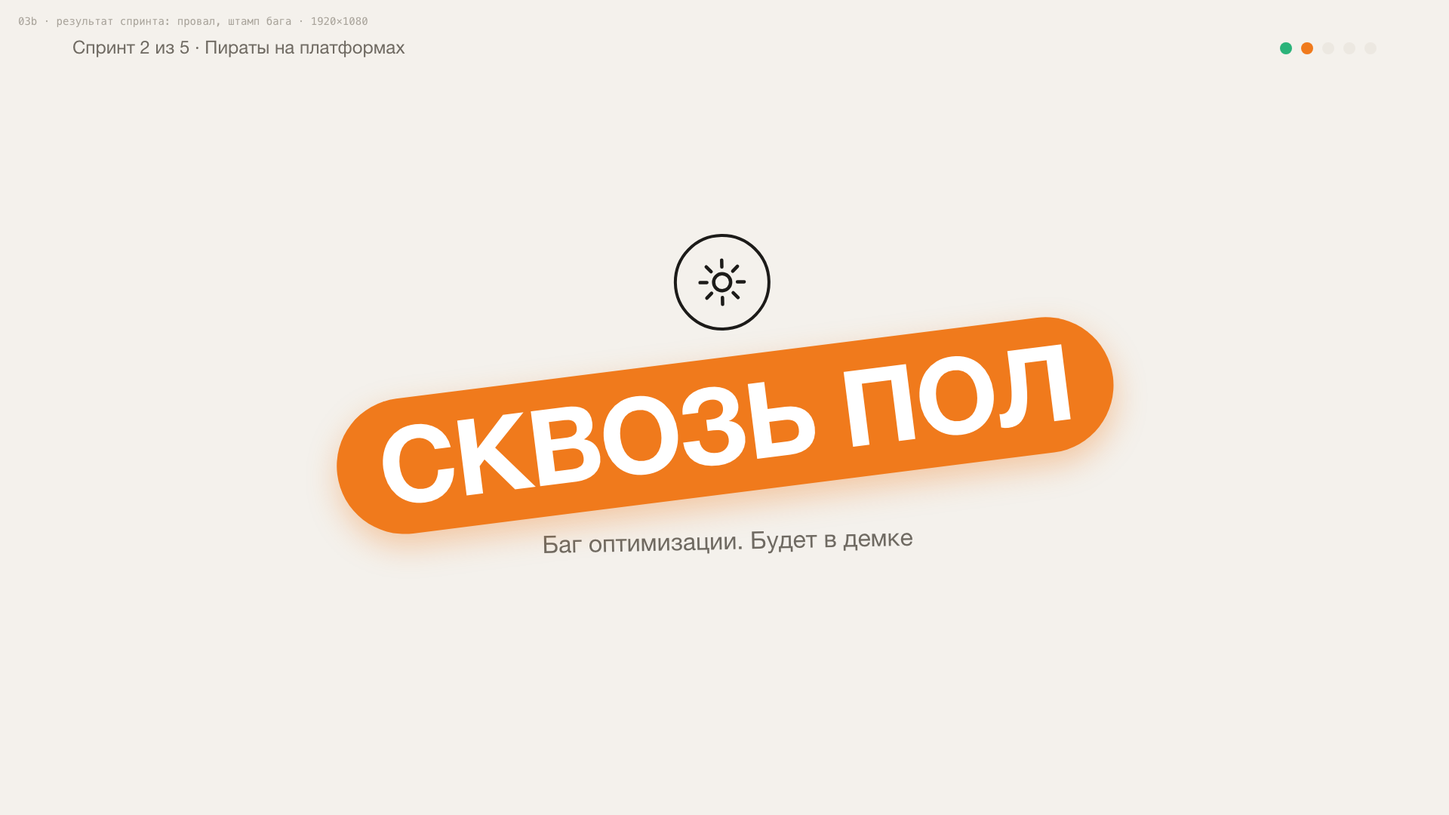
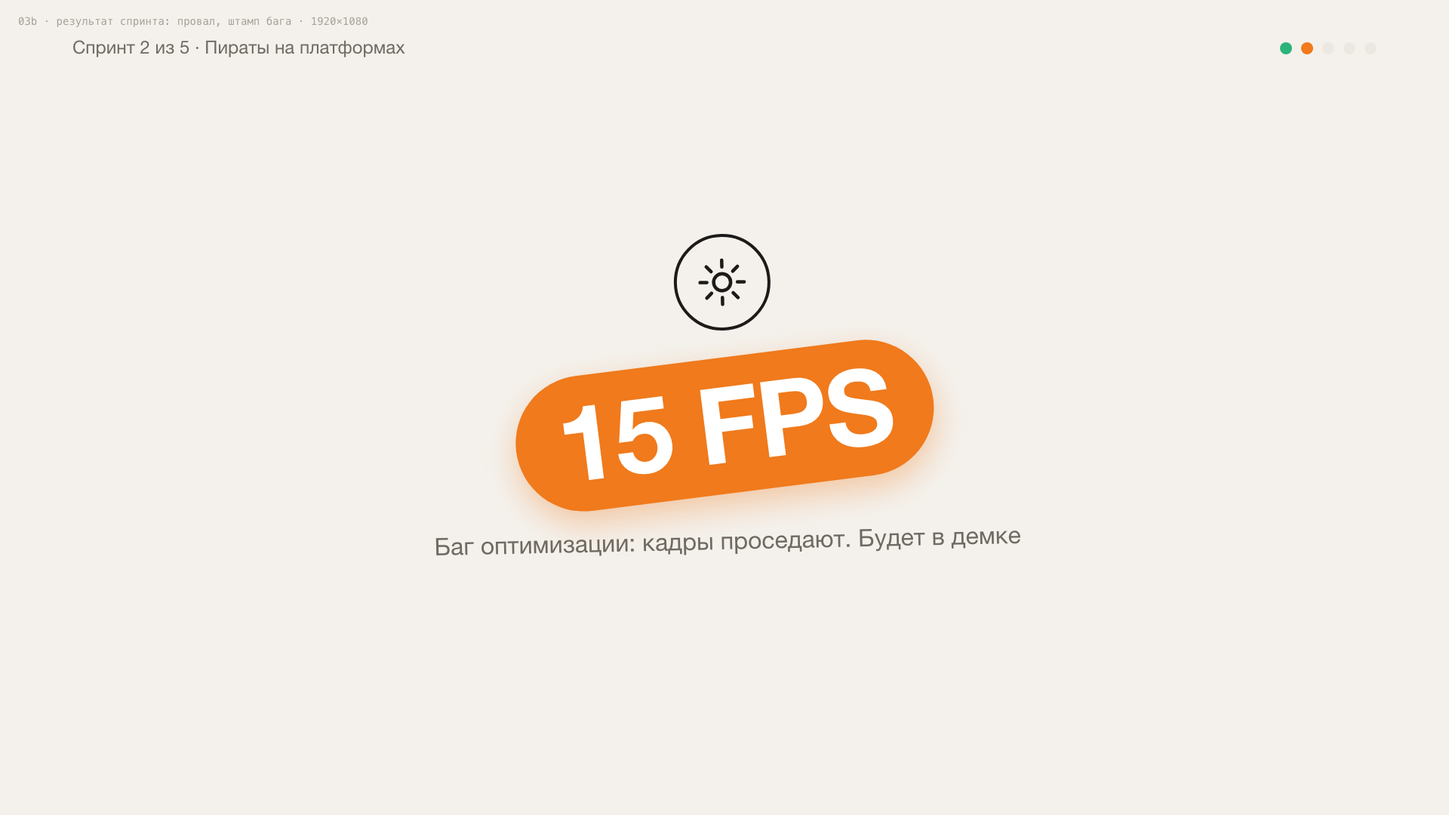
Оптимизация про кадры, баги жанра и технологии; спека демок и каталог 25 пар с набором ассетов сеттинга

Changed region(s): [[0.2188, 0.3667, 0.7812, 0.7028]]

diff --git a/docs/concepts/03b-result-bug.html b/docs/concepts/03b-result-bug.html
@@ -19,8 +19,8 @@
   <div class="dots"><span class="dot ok"></span><span class="dot bug"></span><span class="dot"></span><span class="dot"></span><span class="dot"></span></div>
   <div class="center">
     <div class="aspect big"><svg viewBox="0 0 64 64"><circle cx="32" cy="32" r="10"/><path d="M32 6v8M32 50v8M6 32h8M50 32h8M13.6 13.6l5.7 5.7M44.7 44.7l5.7 5.7M13.6 50.4l5.7-5.7M44.7 19.3l5.7-5.7"/></svg></div>
-    <div class="stamp">СКВОЗЬ ПОЛ</div>
-    <div class="sub">Баг оптимизации. Будет в демке</div>
+    <div class="stamp">15 FPS</div>
+    <div class="sub">Баг оптимизации: кадры проседают. Будет в демке</div>
   </div>
   <div class="label">03b · результат спринта: провал, штамп бага · 1920×1080</div>
 </body></html>

diff --git a/docs/specs/demos_catalog.md b/docs/specs/demos_catalog.md
@@ -1,0 +1,151 @@
+# Каталог демок и набор ассетов сеттинга
+
+Приложение к `demos.md`. Две части: что собой представляет минутная демка каждой пары жанр +
+технология, и какие ассеты обязан дать сеттинг, чтобы любая демка могла его надеть.
+
+## Как читать
+
+У жанра одна цель, одно управление и одна логика на все пять технологий. Технология меняет
+рендер, камеру и темп, в двух местах меняет и геометрию: гонки на 16/32-bit становятся
+псевдо-3D, а обе 3D-технологии переводят все жанры в объём. Переиспользование кода между
+технологиями вопрос реализации, здесь только то, что видит игрок.
+
+Правила технологий, общие для всех жанров:
+
+| Технология | Рендер | Движение | Звук |
+|---|---|---|---|
+| ASCII | Сетка глифов 80×30, один-два цвета на экран, моноширинный шрифт | По клеткам, шаг раз в тик | Пищалка: один голос, квадратная волна |
+| 8-bit | Тайлы 16×16, палитра сеттинга из 4 цветов плюс чёрный, 3 кадра анимации | Плавное, 60 fps | Чиптюн: 3 голоса |
+| 16/32-bit | Спрайты 32×32, 16 цветов, параллакс в 3 слоя, 6 кадров анимации | Плавное, инерция | Трекер: 8 голосов, семплы |
+| Low poly 3D | Плоская заливка без текстур, до 200 треугольников на объект, жёсткие тени | 3D, камера жанра | Синтезатор: FM-пэды |
+| 3D | Те же меши с текстурами и светом, пост-эффекты | Как low poly, камера свободнее | Оркестровые семплы |
+
+## Платформер
+
+Цель: добежать до флага справа за минуту. Управление: влево, вправо, A прыжок. Один уровень:
+ямы, движущиеся платформы, 4-6 врагов, 10 монет, чекпоинт посередине. Падение возвращает на
+чекпоинт, таймер не останавливается.
+
+| Технология | Демка |
+|---|---|
+| ASCII | Герой `@`, враги `x`, платформы `=`, монеты `$`. Прыжок на две клетки, уровень в три экрана с прокруткой по экрану |
+| 8-bit | Классика NES: фиксированные платформы, враг-ходок, прыжок с переменной высотой по длине нажатия |
+| 16/32-bit | Параллакс в три слоя, враги с паттернами, наклонные поверхности, прыжок с инерцией |
+| Low poly 3D | Вид сбоку в 2.5D: дорожка в объёме, камера следит с небольшим поворотом на поворотах уровня |
+| 3D | То же, камера чуть дальше и ниже, текстуры и тени, прыжок с тенью-пятном под героем |
+
+## Гонки
+
+Цель: один круг против трёх ботов, финиш по позиции за минуту. Управление: влево, вправо
+поворот, A газ, B тормоз. Трасса одна, 6 поворотов, два выезда на обочину с замедлением.
+
+| Технология | Демка |
+|---|---|
+| ASCII | Вид сверху, трасса из `#`, машины `A`, `V`, `<`, `>` по направлению, движение по клеткам с ускорением через частоту шагов |
+| 8-bit | Вид сверху, прокрутка за машиной, спрайт машины в 8 направлениях |
+| 16/32-bit | Псевдо-3D в духе Outrun: дорога уходит в горизонт, повороты сдвигают горизонт, боты как масштабируемые спрайты |
+| Low poly 3D | Камера за машиной, трасса из плоских полигонов, боты в объёме |
+| 3D | То же плюс текстура дороги, тени, тряска камеры на обочине |
+
+## Шутер
+
+Цель: продержаться минуту или уничтожить 30 врагов на арене. Управление: стрелки движение,
+A выстрел в направлении движения, B смена направления на месте. Волны по 5 врагов, аптечка
+раз в 20 секунд.
+
+| Технология | Демка |
+|---|---|
+| ASCII | Арена вид сверху, враги `o`, пули `·`, движение по клеткам, выстрел летит по клетке за тик |
+| 8-bit | Вид сверху, арена в один экран, враги двух типов: идёт и стреляет |
+| 16/32-bit | Вид сверху с параллаксом пола, враги с анимацией смерти, разброс пуль |
+| Low poly 3D | Вид сверху под углом, арена в объёме, враги-капсулы, выстрел трассером |
+| 3D | То же, камера ниже и ближе, вспышки и дым |
+
+## Спорт
+
+Цель: забить больше, чем бот, за минуту; матч один на один в упрощённом футболе. Управление:
+стрелки движение, A удар, B подкат. Поле один экран, ворота по краям, мяч с отскоком.
+
+| Технология | Демка |
+|---|---|
+| ASCII | Поле из `.`, игроки `1` и `2`, мяч `o`, ворота `[ ]`, мяч летит по клеткам с затуханием |
+| 8-bit | Вид сверху, спрайты 16×16, мяч с тенью, удар одной силы |
+| 16/32-bit | Вид три четверти, мяч с высотой, сила удара по длине нажатия, вратари-боты |
+| Low poly 3D | Камера сверху-сбоку, поле в объёме, мяч с физикой отскока |
+| 3D | То же, трава текстурой, повтор гола две секунды |
+
+## Файтинг
+
+Цель: один раунд против бота, минута, побеждает тот, у кого больше здоровья. Управление:
+влево, вправо, A удар, B блок, вниз присед. Два бойца, одна арена, одна полоска здоровья у
+каждого.
+
+| Технология | Демка |
+|---|---|
+| ASCII | Бойцы из 3×4 глифов, удар меняет глифы на один тик, дистанция в клетках |
+| 8-bit | Вид сбоку, спрайты 16×32, удар верхний и нижний, блок стоя |
+| 16/32-bit | Вид сбоку, спрайты 32×64, 6 кадров на удар, комбо из двух ударов |
+| Low poly 3D | Вид сбоку в объёме, бойцы-манекены, камера чуть поворачивается при смене сторон |
+| 3D | То же, арена с глубиной, удары с частицами |
+
+## Порядок реализации
+
+Предложение. Сначала вертикаль одного жанра, потом горизонталь одной технологии, остальное по
+мере открытия пар в забегах игроков.
+
+1. Платформер × 8-bit (M0).
+2. Платформер × ASCII и × 16/32-bit: проверяют, что жанр держится на трёх 2D-рендерах.
+3. Гонки × 8-bit, шутер × 8-bit, спорт × 8-bit, файтинг × 8-bit: все жанры на одной технологии,
+   первый играбельный забег.
+4. Платформер × low poly: первая 3D-пара, вся 3D-инфраструктура.
+5. Остальные по технологиям: ASCII для всех, 16/32 для всех, low poly для всех, 3D для всех.
+
+Если матрицу решат сделать разреженной, первые кандидаты на вылет: ASCII × файтинг и ASCII ×
+спорт, их труднее всего сделать читаемыми.
+
+## Набор ассетов сеттинга
+
+Сеттинг подменяет ассеты и слова и ничего больше. Чтобы любая из 25 демок могла его надеть,
+у сеттинга есть обязательные слоты. Каждый слот существует в пяти форматах, по технологии.
+
+| Слот | Кому нужен | Пример для «Пиратов» |
+|---|---|---|
+| Герой | все | матрос |
+| Противник | платформер, шутер, файтинг | скелет, второй боец: капитан |
+| Соперник | спорт, гонки | команда соперника, чужие шлюпки |
+| Транспорт | гонки | шлюпка под парусом |
+| Снаряд | шутер | ядро |
+| Мяч и ворота | спорт | бочонок и две бухты каната |
+| Препятствие | платформер, гонки | бочка, риф |
+| Бонус | платформер, шутер | дублон, ром |
+| Финиш | платформер, гонки | флаг с черепом, причал |
+| Земля | все | палуба, песок |
+| Стена и фон | все | борт, море и горизонт |
+| Два пропа | все | пушка, сундук |
+
+Форматы слотов по технологиям:
+
+| Технология | Формат слота |
+|---|---|
+| ASCII | Глиф плюс цвет; для героя и противника по одному глифу, для земли и стены по одному |
+| 8-bit | Спрайт 16×16 (боец 16×32), 3 кадра, в палитре сеттинга из 4 цветов |
+| 16/32-bit | Спрайт 32×32 (боец 32×64), 6 кадров, 16 цветов |
+| Low poly 3D | Меш до 200 треугольников, плоские цвета из палитры сеттинга |
+| 3D | Тот же меш плюс текстура 256×256 и материал |
+
+Кроме слотов:
+
+- **Палитра**: 4 цвета для 8-bit, 16 для 16/32-bit, 6 цветов материалов для 3D. Из неё же
+  берётся фон карточки сеттинга в конструкторе.
+- **Музыка**: одна тема сеттинга в нотах; аранжировку под технологию (пищалка, чиптюн, трекер,
+  синтезатор, оркестр) делает движок из одного источника. Это ставка на реализацию, иначе 5
+  аранжировок на сеттинг.
+- **Звуки**: прыжок, удар, подбор, выстрел, гол, финиш: 6 штук в одном формате, технология
+  обрабатывает битрейтом и фильтром.
+- **Слова**: 12 существительных и 6 прилагательных для генератора названий, хэштег, 3 реплики
+  критиков и 3 реплики стримеров с подстановкой.
+
+Стоимость одного сеттинга: 12 слотов × 5 форматов плюс палитра, тема, звуки и слова. Это
+второй множитель скоупа после 25 демок, поэтому v1: три сеттинга (пираты, космос, замки) и
+правило, что 3D-формат переиспользует меш low poly с текстурой, а ASCII-формат описывается
+одной строкой в ресурсе сеттинга, а не рисуется.

diff --git a/docs/specs/demos.md b/docs/specs/demos.md
@@ -5,36 +5,62 @@
 ## Цель
 
 Игрок запускает свою игру и видит в ней именно те баги, которые сам допустил. Центр пиллара 1.
+Каталог демок по парам и набор ассетов сеттинга: `demos_catalog.md`.
 
 ## Поведение
 
-- Одна демка на пару жанр + технология (5 × 5 = 25 в полной матрице), сеттинг подменяет
-  ассеты. Минутный уровень с понятной целью: доехать, дострелять, забить, победить, добежать.
+- Одна демка на пару жанр + технология, 25 в полной матрице, сеттинг подменяет ассеты и слова,
+  логику не трогает. Минутный уровень с понятной целью: добежать, доехать, дострелять, забить,
+  победить. Таймер 60 секунд виден всегда; по цели или по таймеру короткий экран итога
+  («добежал», «не добежал») и возврат туда, откуда запустили.
+- Запускается из трёх мест: плейтест после спринтов, лента отклика, галерея между забегами.
+  Везде одна и та же демка с одним и тем же списком багов.
 - Плейтест: отдельный этап после спринтов, игрок играет демку с текущими багами. После него
-  можно купить спринт багфикса: мини-игра, успех чинит часть багов, какие, игрок не выбирает.
-- Единый каталог багов: каждый баг имеет аспект, проявление в демке, текст твита, кадр для
-  клипа стримера, флаг «зрелищный» (помогает у стримеров). Аспекты: оптимизация, звук, управление,
-  графика, баланс. Мини-игры абстрактные, поэтому жанровый смысл бага живёт здесь: баг оптимизации
-  в платформере это пол, в гонках стена, в спорте отскок. v1: один-два бага на аспект, у
-  оптимизации проявление на жанр.
-- Демка доступна из ленты отклика и из галереи между забегами.
-- Без сохранений и прогрессии внутри. Ввод клавиатура, геймпад.
+  предложение купить спринт багфикса по цене обычного спринта: случайная аспектная мини-игра,
+  успех чинит половину текущих багов, округляя вверх, какие именно, случайно; провал не
+  добавляет багов. Отказаться можно, Esc.
+- Баги накладываются на демку как модификаторы: демка одна, баги включаются флагами из
+  записи игры. Каждый баг виден в первые 15 секунд игры, иначе он не баг, а слух.
+- Три класса багов, по видам мини-игр:
+  - *Аспектные*, по одному-два на аспект, общие для всех демок: оптимизация → кадры проседают
+    (периодические фризы на 200-400 мс, в движении); звук → музыка заикается, звуки с задержкой;
+    управление → залипание кнопки, ввод с опозданием; графика → розовые заглушки вместо части
+    спрайтов, чужая палитра; баланс → враги бессмертны или умирают от чиха, цель недостижима
+    или тривиальна.
+  - *Жанровые*, по одному на жанр, физика и коллизии: платформер → герой проваливается сквозь
+    пол на части платформ; гонки → машина проходит сквозь стены и вылетает с трассы; шутер →
+    пули проходят сквозь врагов, попадания не засчитываются; спорт → мяч залипает в стене или
+    улетает за край поля; файтинг → удары не регистрируются, хитбоксы смещены.
+  - *Технологические*, по одному на технологию, рендер: ASCII → глифы путаются, стены неотличимы
+    от пола; 8-bit → спрайты мерцают и исчезают при четырёх на строке; 16/32-bit → слои
+    параллакса едут в разные стороны, разрывы; low poly → дыры в моделях, вывернутые грани;
+    3D → камера проходит сквозь стены, герой пропадает из кадра.
+- У каждого бага: id, класс, аспект или жанр или технология, название для штампа, проявление
+  в демке, текст твита, кадр для клипа стримера, флаг «зрелищный». Зрелищные: сквозь пол,
+  сквозь стены, мяч в космос, дыры в моделях, камера сквозь стены.
+- Демка без сохранений и прогрессии внутри. Ввод клавиатура, геймпад. Пауза есть, Esc выходит.
 
 ## Данные
 
-- Сигналы: `demo_finished(record: GameRecord)`.
-- Состояние: `GameRecord` — конфигурация, список багов, результаты; `BugDef` в каталоге.
-- Тюнинг: `res://resources/bugs/catalog.tres`.
+- Сигналы: `demo_started(record: GameRecord, source: StringName)`, `demo_finished(record:
+  GameRecord, reached_goal: bool)`.
+- Состояние: `GameRecord` — конфигурация, список `bug_ids`, результаты; `BugDef` в каталоге.
+- Тюнинг: `res://resources/bugs/catalog.tres` (`BugCatalog`); параметры проявлений в
+  `res://resources/bugs/<id>.tres`; демки в `res://scenes/demos/<genre>_<tech>.tscn`.
 
 ## Крайние случаи и вне скоупа
 
-- Матрица демок полная или разреженная, порядок реализации, минимум для первого билда: открыто
-  в GDD.
-- Что именно чинит багфикс (сколько, по какому правилу): открыто.
-- Вне скоупа: демки длиннее минуты, жанровые баги в v1, пользовательский контент.
+- Матрица демок полная или разреженная, порядок реализации: открыто в GDD. Предложение
+  порядка в каталоге.
+- Баг жанра и баг аспекта «баланс» вместе могут сделать демку непроходимой: допустимо, таймер
+  всё равно её заканчивает, итог «не добежал».
+- Багфикс при одном баге: чинит его.
+- Вне скоупа: демки длиннее минуты, редактор уровней, несколько уровней на демку, рекорды.
 
 ## Задачи
 
-- [ ] Каталог общих багов v1 с проявлением по аспектам.
-- [ ] Первая демка: платформер 8-bit с 3-4 багами для M0.
-- [ ] Правило багфикса.
+- [ ] `BugCatalog`, `BugDef`, 15 багов v1 с проявлениями и текстами.
+- [ ] M0: демка платформер × 8-bit с четырьмя багами (кадры, звук, управление, сквозь пол).
+- [ ] Экран итога демки и возврат в источник.
+- [ ] Спринт багфикса.
+- [ ] Остальные демки по порядку из каталога, по одной задаче на пару.

diff --git a/docs/specs/minigames.md b/docs/specs/minigames.md
@@ -27,13 +27,15 @@
 - Спринт: карточка-интро на секунду (глагол крупно, значок аспекта), мини-игра 10-30 секунд,
   карточка результата на секунду («готово» или название бага штампом), затем 2-3 секунды
   анимации студии, пропускаются любой клавишей. Исход бинарный: порог внутри мини-игры.
-- Пять аспектов: оптимизация, звук, управление, графика, баланс. Оптимизация это физика,
-  коллизии, стабильность и производительность: её баг в платформере проваливает сквозь пол, в
-  гонках пускает сквозь стену, в спорте ломает отскок мяча. Успех засчитывает спринт, качество игры = успехи / спринты.
+- Пять аспектов: оптимизация, звук, управление, графика, баланс. Оптимизация это
+  производительность: её баг просаживает кадры, демка дёргается. Успех засчитывает спринт,
+  качество игры = успехи / спринты.
 - Три вида мини-игр, пул v1 ровно 20. *Аспектные*, по две на аспект: провал даёт баг своего
-  аспекта. *Технологические*, по одной на технологию, и *жанровые*, по одной на жанр: к аспекту
-  не привязаны, на интро вместо значка аспекта значок технологии или жанра, провал даёт баг в
-  случайный аспект из пяти.
+  аспекта. *Жанровые*, по одной на жанр: провал даёт баг жанра, это физика и коллизии в том
+  виде, в каком они ломаются именно в этом жанре (платформер сквозь пол, гонки сквозь стену,
+  спорт мяч залипает). *Технологические*, по одной на технологию: провал даёт баг рендера этой
+  технологии (мерцание спрайтов, дыры в модели). На интро у них значок жанра или технологии
+  вместо значка аспекта. Каталог багов в спеке демок.
 - Все абстрактные: фигуры, полосы, клетки, ноты, без контента сеттинга. Технологическая и
   жанровая могут использовать схематичный образ своего предмета (глифы, палитра, линия трассы),
   но не ассеты демок.
@@ -41,9 +43,8 @@
   спринта. Остальные N − 2 (от 2 до 6) идут аспектным по весам аспектов для пары жанр +
   технология (таблица в каталоге): сначала по одному спринту аспектам в порядке убывания веса,
   мини-игра аспекта случайная из двух; при N − 2 > 5 лишний спринт идёт аспекту с наибольшим
-  весом и берёт его вторую мини-игру. Аспект без
-  спринта своего бага не получает, но случайный баг от жанровой или технологической в него
-  попасть может. Порядок перемешан, одна и та же мини-игра не идёт первой два релиза подряд.
+  весом и берёт его вторую мини-игру. Аспект без спринта бага не получает. Порядок перемешан,
+  одна и та же мини-игра не идёт первой два релиза подряд.
 - Вариации: сложность и сид. `t = (номер релиза − 1) / (кап − 1)`, обрезано в 0..1, каждая
   мини-игра сама переводит `t` в число целей, скорость, допуск. Время мини-игры с `t` не
   растёт.
@@ -70,8 +71,8 @@
 ## Крайние случаи и вне скоупа
 
 - Веса аспектов равны: порядок добавления фиксирован в тюнинге, не случаен.
-- Случайный баг от жанровой или технологической попал в аспект, где баг уже есть: берётся
-  другой баг того же аспекта, если в каталоге есть, иначе аспект перебрасывается.
+- Аспект получил два спринта и оба провалены: второй баг того же аспекта из каталога, если
+  есть, иначе баг один, а качество всё равно считает оба провала.
 - Вне скоупа: частичные очки, делегирование, выбор мини-игры игроком, мышь как обязательный
   ввод, мини-игры длиннее 30 секунд, контент сеттинга в мини-играх.
 
@@ -79,7 +80,7 @@
 
 - [ ] Раннер спринта: интро, мини-игра, результат, анимация, сигналы, автотест на 8 спринтов.
 - [ ] `MinigameDef`, `SprintTuning`, подбор набора как чистая функция с тестом на 4, 5 и 8.
-- [ ] M0: четыре аспектные мини-игры: подгони, в такт, повтори, залей; подбор в M0 без
-  жанровой и технологической.
+- [ ] M0: четыре аспектные мини-игры (подгони, в такт, повтори, залей) и жанровая «Прыгай»;
+  подбор в M0 без технологической.
 - [ ] Остальные шестнадцать по одной задаче на мини-игру.
 - [ ] Переигровка и первый релиз.

diff --git a/docs/DESIGN.md b/docs/DESIGN.md
@@ -2,11 +2,26 @@
 
 Каждое решение: дата, вопрос, варианты, что выбрали и почему. Новые записи сверху.
 
+## 2026-11-03 Оптимизация только про кадры, баги жанра и технологии, спека демок
+
+- **Оптимизация** (Артемий): аспект про производительность, его баг просаживает кадры. Физика
+  и коллизии из аспекта убраны.
+- **Три класса багов.** Следствие: провал жанровой мини-игры даёт баг физики и коллизий этого
+  жанра (платформер сквозь пол, гонки сквозь стену), провал технологической даёт баг рендера
+  технологии (мерцание спрайтов, дыры в моделях). Правило «баг в случайный аспект» отменено.
+  Моя интерпретация слов «это будут баги, вызванные мини-играми по технологии или жанру».
+- **Цель M0** переформулирована: связь «провалил мини-игру, и вот в демке именно этот баг» на
+  двух примерах, «Прыгай» и сквозь пол, «Подгони» и просадка кадров. В M0 добавлена жанровая
+  мини-игра.
+- **Спека демок** переписана: демка как модификаторы-флаги на одной сцене, каждый баг виден в
+  первые 15 секунд, багфикс чинит половину багов случайно (предложение), каталог из 15 багов
+  v1. Дочерняя `demos_catalog.md` (Артемий): описания 25 пар и набор ассетов сеттинга с
+  форматами по технологиям, порядок реализации, лимит v1 на три сеттинга (предложение).
+
 ## 2026-11-03 Аспект «движок» переименован в «оптимизация»
 
-- Решение (Артемий): аспект называется «оптимизация». Содержание то же: физика, коллизии,
-  стабильность, производительность; баг проявляется по-жанрово. Переименовано в GDD, спеках
-  мини-игр и демок, каталоге, цели M0 и концептах.
+- Решение (Артемий): аспект называется «оптимизация». Переименовано в GDD, спеках мини-игр и
+  демок, каталоге, цели M0 и концептах. Содержание уточнено записью выше.
 
 ## 2026-11-02 Визуальный код: отдельный документ с проверкой концептами
 

diff --git a/docs/GDD.md b/docs/GDD.md
@@ -39,14 +39,14 @@
 Мини-игры абстрактные: фигуры, полосы, клетки, ноты, без контента сеттинга. Смысл им даёт
 аспект на интро-карточке и баг, который следует за провалом. Разнообразие из сложности,
 растущей от релиза к релизу, и сида. Пул v1: 20 мини-игр. Десять аспектных, по две на аспект,
-провал даёт баг своего аспекта. Пять технологических и пять жанровых, по одной на каждую
-технологию и жанр: к аспекту не привязаны, провал даёт баг в случайный аспект. В релизе
-всегда мини-игра технологии, мини-игра жанра и аспектные на остальные спринты.
-По одному примеру на аспект, чтобы было понятно, что игрок делает руками:
+провал даёт баг своего аспекта. Пять жанровых, по одной на жанр: провал даёт баг физики и
+коллизий этого жанра, в платформере герой проваливается сквозь пол, в гонках машина проходит
+сквозь стену. Пять технологических, по одной на технологию: провал даёт баг рендера этой
+технологии. В релизе всегда мини-игра технологии, мини-игра жанра и аспектные на остальные
+спринты. По одному примеру на аспект, чтобы было понятно, что игрок делает руками:
 
-- *Оптимизация* (физика, коллизии, стабильность, производительность): мимо летят фигуры, стрелками подгоняешь рамку под
-  каждую за секунду. Провал в платформере: герой проваливается сквозь пол; в гонках: машина
-  сквозь стену; в спорте: мяч залипает.
+- *Оптимизация*: мимо всплывают фигуры, стрелками подгоняешь число сторон трафарета и
+  отправляешь фигуру в него. Провал: кадры проседают, демка дёргается на каждом прыжке.
 - *Звук*: ноты бегут к метке, жмёшь в такт. Провал: музыка заикается, звуки с задержкой.
 - *Управление*: повторяешь показанное комбо клавиш до конца таймера. Провал: залипание кнопок,
   прыжок срабатывает с опозданием.

diff --git a/docs/PLAN.md b/docs/PLAN.md
@@ -6,8 +6,8 @@
 
 ## M0 Прототип
 
-**Цель:** Ответить на главный вопрос GDD: чувствует ли игрок связь «я провалил мини-игру про оптимизацию, и вот мой герой проваливается сквозь пол».  
-**Готово, когда:** Один жанр, одна технология, 3-4 мини-игры по разным аспектам, одна демка с 3-4 багами, ноль экономики; играется 5 минут без заглушек; автотест есть.  
+**Цель:** Ответить на главный вопрос GDD: чувствует ли игрок связь «я провалил мини-игру, и вот в моей демке именно этот баг»: провалил «Прыгай», герой проваливается сквозь пол; провалил «Подгони», демка дёргается.  
+**Готово, когда:** Один жанр, одна технология, 3-4 аспектные мини-игры плюс жанровая, одна демка с 3-4 багами, ноль экономики; играется 5 минут без заглушек; автотест есть.  
 **Оценка:** 0.5 дн.
 
 | | Задача | Тип | Кто | Размер |

diff --git a/docs/specs/minigames_catalog.md b/docs/specs/minigames_catalog.md
@@ -4,7 +4,8 @@
 5 жанровых. Все
 абстрактные, без контента сеттинга; технологические и жанровые могут брать схематичный образ
 своего предмета. Каждая: глагол на интро, что делает игрок, условие провала, оси вариаций от
-`t`. Баг при провале: у аспектных из своего аспекта, у остальных из случайного. Все на
+`t`. Баг при провале: у аспектных из своего аспекта, у жанровых баг жанра, у технологических
+баг технологии (спека демок). Все на
 стрелках, A и B. Время для `t = 0`, с `t` растёт сложность, не время.
 
 ## Аспектные

diff --git a/docs/specs/README.md b/docs/specs/README.md
@@ -8,5 +8,6 @@
 
 Статусы: `Draft` → `Building` → `Shipped` → `Synced YYYY-MM-DD` (после сверки с кодом).
 
-Системы: `constructor.md`, `minigames.md`, `demos.md` (демки и каталог багов), `success.md`,
+Системы: `constructor.md`, `minigames.md` (+ `minigames_catalog.md`), `demos.md` (демки и
+каталог багов, + `demos_catalog.md` с описаниями пар и набором ассетов сеттинга), `success.md`,
 `economy.md`, `studio.md`, `meta.md`, `run.md`.
